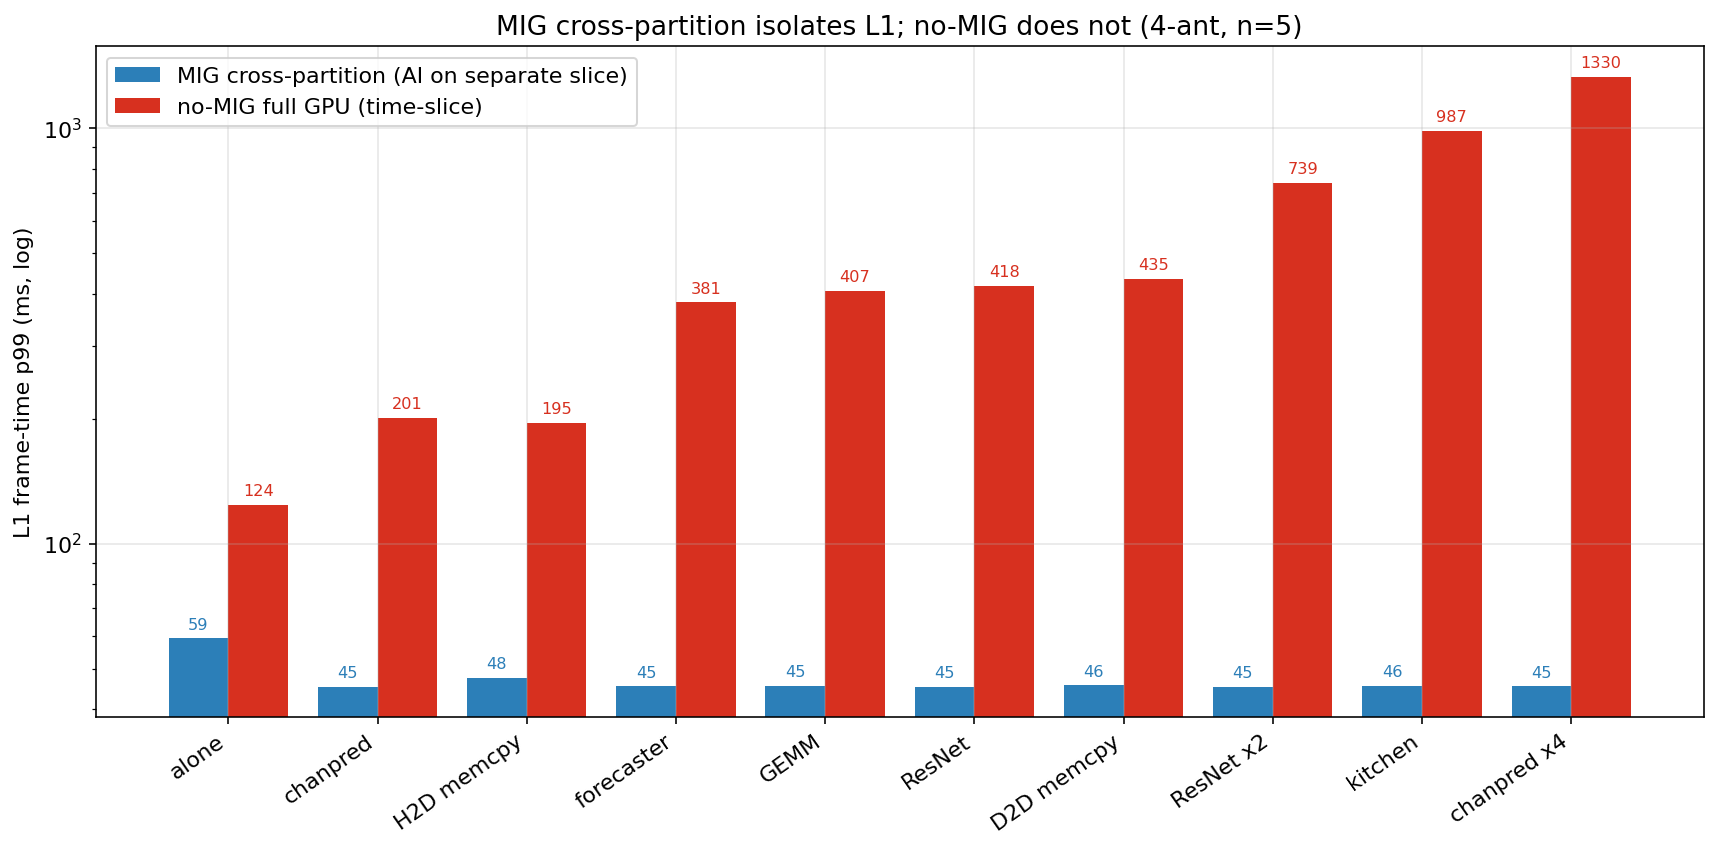
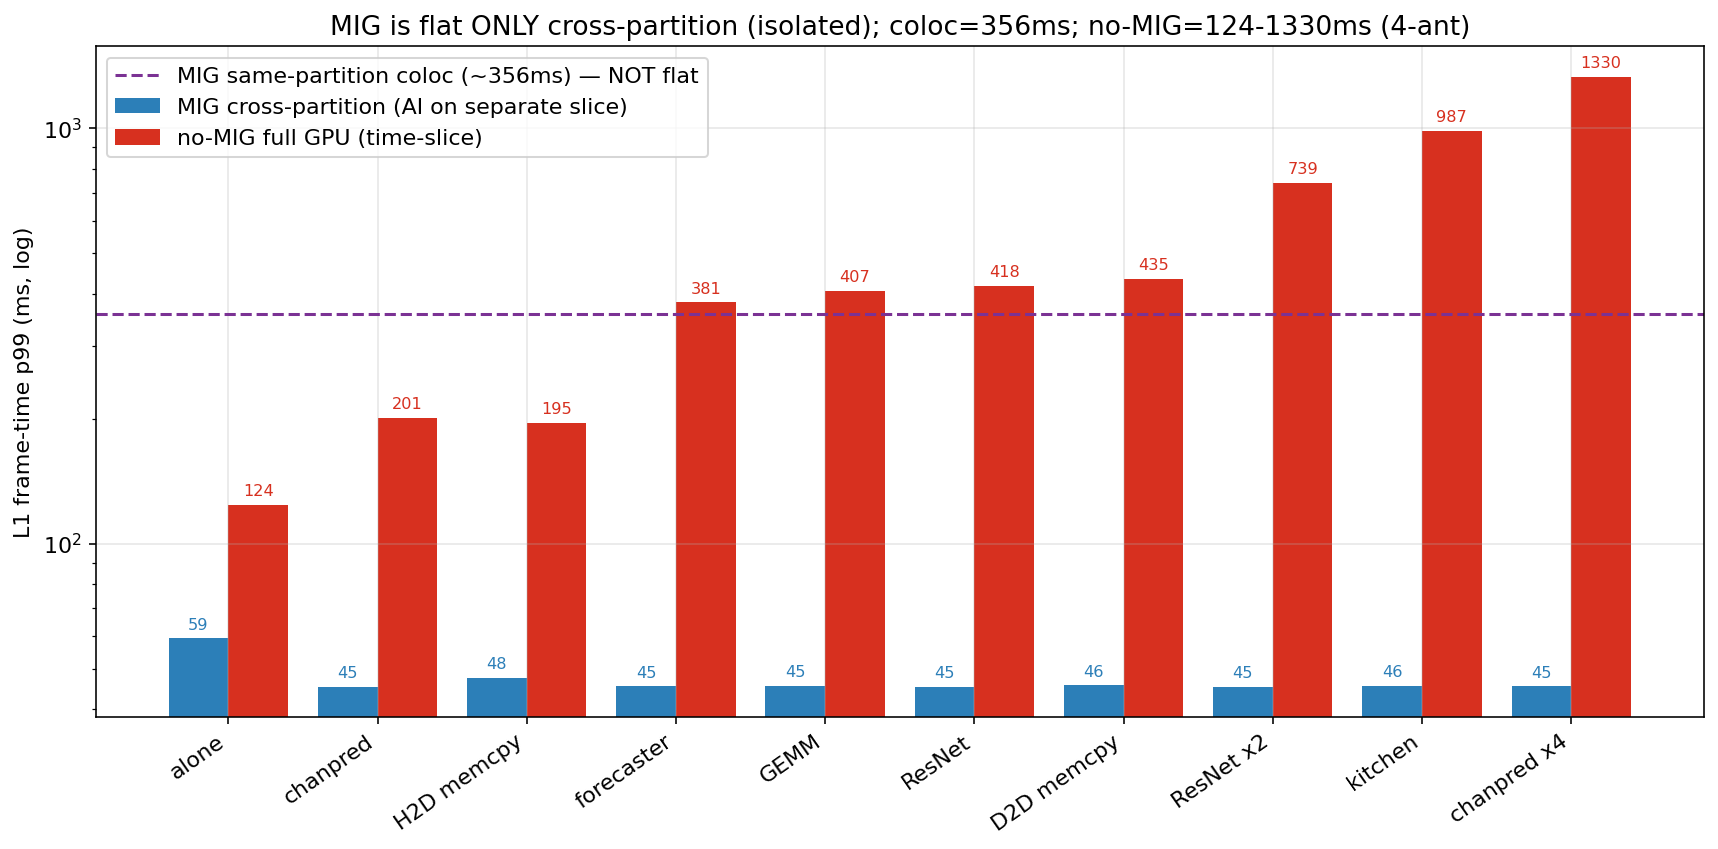
Fix misleading 'MIG is flat' framing — MIG is placement-dependent & bistable
User caught that MIG is NOT flat in the 5/31-6/1 data. The flat ~45ms only holds
for cross-partition (isolated) placement. Added:
- §F0 + figF7: MIG L1 p99 by placement (cross 45 vs coloc 356-371) and the 3g
  coloc run-to-run bistability (7/10 runs ~360ms, 3/10 ~45ms)
- figF1/figF3 now show the MIG coloc reference line (MIG not always flat)
- summary/conclusion reframed: MIG flat only cross-partition; coloc bad+bistable

Changed region(s): [[0.0617, 0.0, 0.8329, 0.1837]]

diff --git a/results/perlmutter_handoff/build_perlmutter_figures.py b/results/perlmutter_handoff/build_perlmutter_figures.py
@@ -65,7 +65,9 @@ xp=[d[2] for d in data]; nm=[d[1] for d in data]
 ax.bar(x-w/2,xp,w,label="MIG cross-partition (AI on separate slice)",color=C_X)
 ax.bar(x+w/2,nm,w,label="no-MIG full GPU (time-slice)",color=C_NM)
 ax.set_yscale("log"); ax.set_ylabel("L1 frame-time p99 (ms, log)")
-ax.set_title("MIG cross-partition isolates L1; no-MIG does not (4-ant, n=5)")
+ax.axhline(coloc_nrx if 'coloc_nrx' in dir() else 356, color=C_CO, ls="--", lw=1.5,
+           label="MIG same-partition coloc (~356ms) — NOT flat")
+ax.set_title("MIG is flat ONLY cross-partition (isolated); coloc=356ms; no-MIG=124-1330ms (4-ant)")
 ax.set_xticks(x); ax.set_xticklabels(labs,rotation=35,ha="right")
 for xi,v in zip(x-w/2,xp): ax.text(xi,v*1.05,f"{v:.0f}",ha="center",fontsize=8,color=C_X)
 for xi,v in zip(x+w/2,nm): ax.text(xi,v*1.05,f"{v:.0f}",ha="center",fontsize=8,color=C_NM)
@@ -86,7 +88,10 @@ x=np.arange(len(data)); labs=[d[0] for d in data]
 ax.plot(x,[d[2]/xp_alone for d in data],"o-",color=C_X,label="MIG cross-part (vs MIG alone)")
 ax.plot(x,[d[1]/nm_alone for d in data],"s-",color=C_NM,label="no-MIG (vs no-MIG alone)")
 ax.axhline(1,color="gray",ls="--",lw=0.8); ax.set_yscale("log")
-ax.set_ylabel("L1 p99 / own alone baseline"); ax.set_title("Isolation: MIG stays ~flat, no-MIG climbs up to ~11x")
+ax.axhline(coloc_nrx/xp_alone, color=C_CO, ls=":", lw=2,
+           label=f"MIG same-part coloc (~{coloc_nrx/xp_alone:.0f}x — MIG is NOT always flat)")
+ax.set_ylabel("L1 p99 / own alone baseline")
+ax.set_title("MIG cross-part stays flat; but MIG coloc jumps ~6x and no-MIG up to ~11x")
 ax.set_xticks(x); ax.set_xticklabels(labs,rotation=35,ha="right"); ax.legend()
 fig.tight_layout(); fig.savefig(f"{OUT}/figF3_normalized_contention.png"); plt.close(fig)
 
@@ -128,6 +133,31 @@ ax.set_xticks(x); ax.set_xticklabels(labs,rotation=35,ha="right")
 for xi,d in zip(x,data): ax.text(xi,d[1]*1.05,f"{d[1]:.0f}",ha="center",fontsize=8,color=C_NM)
 ax.legend(loc="upper left"); fig.tight_layout(); fig.savefig(f"{OUT}/figF6_three_regime_spectrum.png"); plt.close(fig)
 
+# ===================== FIG 7: MIG is NOT flat — placement & bistability =====================
+fig,(axL,axR)=plt.subplots(1,2,figsize=(15,6),gridspec_kw={"width_ratios":[1.1,1]})
+# left: MIG L1 p99 by placement
+mig_xpart = xp_alone  # ~45-59 representative (use chanpred cross-part instead for "under AI")
+mig_xpart_ai = p99(XPART,"realL1_F_E_chanpred_b64_run*.json")
+c4 = p99(COLOC,"realL1_G_1b_4g_coloc_run*.json")
+c2 = p99(COLOC,"realL1_G_1c_2g_coloc_run*.json")
+names=["cross-part\n+AI (3g)","coloc 4g\n+NeuralRx","coloc 2g\n+NeuralRx","coloc 3g\n+NeuralRx\n(bistable)"]
+vals=[mig_xpart_ai, c4, c2, p99(COLOC,"realL1_G_1a_3g_coloc_run*.json")]
+cols=[C_X,C_CO,C_CO,C_CO]
+b=axL.bar(names,vals,color=cols)
+for bb,v in zip(b,vals): axL.text(bb.get_x()+bb.get_width()/2,v+6,f"{v:.0f}",ha="center",fontsize=10)
+axL.set_ylabel("MIG L1 frame-time p99 (ms)")
+axL.set_title("MIG is NOT flat: depends entirely on placement\n(cross-part isolates; same-part coloc 6-8x worse)")
+# right: 3g coloc per-run bistability
+runs=[]
+for f in sorted(glob.glob(f"{COLOC}/realL1_G_1a_3g_coloc_run*.json")):
+    d=json.load(open(f)); runs.append(np.percentile(d["raw_ms"],99))
+axR.bar(range(1,len(runs)+1),runs,color=[C_X if r<100 else C_CO for r in runs])
+axR.axhline(100,color="gray",ls="--",lw=0.8)
+axR.set_xlabel("run #"); axR.set_ylabel("L1 p99 (ms)")
+axR.set_title("Same MIG 3g coloc config, run-to-run BISTABLE\n(7/10 runs ~360ms, 3/10 runs ~45ms)")
+fig.tight_layout(); fig.savefig(f"{OUT}/figF7_mig_not_flat_bistable.png"); plt.close(fig)
+
+print("MIG not-flat: xpart+AI", round(mig_xpart_ai,1), "coloc4g", round(c4,1), "coloc2g", round(c2,1))
 print("OK. baselines: no-MIG alone", round(nm_alone,1), "| MIG xpart alone", round(xp_alone,1),
       "| MIG coloc alone", round(coloc_alone,1), "| MIG coloc+nrx", round(coloc_nrx,1),
       "| no-MIG+nrx", round(nrx_nomig,1))

diff --git a/results/perlmutter_handoff/PERLMUTTER_NOMIG_VISUAL_EVIDENCE_KR.md b/results/perlmutter_handoff/PERLMUTTER_NOMIG_VISUAL_EVIDENCE_KR.md
@@ -37,11 +37,31 @@
 
 ---
 
-# §F1. MIG cross-partition은 격리한다, no-MIG는 못 한다
+# §F0. 먼저 — MIG는 "평탄"하지 않다 (오해 방지)
+
+![MIG not flat](figures/figF7_mig_not_flat_bistable.png)
+
+뒤의 §F1/§F3에서 MIG가 ~45ms로 평탄하게 보이는 것은 **cross-partition(AI를 별도 slice에 격리) regime만** 그렸기 때문이다. **MIG 전체는 결코 평탄하지 않다** — placement에 따라 6–8배 출렁이고, 심지어 같은 설정에서 run마다 튄다:
+
+| MIG placement | L1 p99 |
+|---|---|
+| cross-partition + AI (3g) | **45ms** (격리됨) |
+| same-partition coloc 4g + NeuralRx | **356ms** |
+| same-partition coloc 2g + NeuralRx | **371ms** |
+| same-partition coloc 3g + NeuralRx | **bistable: 7/10 run ≈ 360ms, 3/10 run ≈ 45ms** |
+
+- **왼쪽 그림**: MIG L1 p99는 cross-part 45ms → coloc 356–371ms. AI를 어디 두느냐가 전부.
+- **오른쪽 그림**: MIG 3g coloc은 **같은 설정인데 run마다 ~360ms 또는 ~45ms로 양극화(bistable)** — 예측 불가능. (상위 문서 §4 bistable contention과 일치.)
+
+> 따라서 §F1의 파란 막대(평탄 45ms)는 **MIG의 best-case(cross-partition)일 뿐**이다. MIG의 realistic/worst case(coloc)는 §F5–F7에서 별도로 본다. 이 점을 전제로 아래를 읽어야 한다.
+
+---
+
+# §F1. MIG cross-partition은 격리한다, no-MIG는 못 한다 (MIG best-case)
 
 ![MIG vs no-MIG p99](figures/figF1_mig_vs_nomig_p99.png)
 
-`F_saturation`(cross-partition)과 우리 no-MIG에 **둘 다 존재하는 10개 조건**의 깔끔한 1:1 비교. 파란색(MIG)은 전부 ~45ms 평탄, 빨간색(no-MIG)은 124→1330ms로 상승.
+`F_saturation`(cross-partition)과 우리 no-MIG에 **둘 다 존재하는 10개 조건**의 1:1 비교. 파란색(MIG **cross-partition, best-case**)은 ~45ms, 빨간색(no-MIG)은 124→1330ms로 상승. **단, 파란색은 MIG의 best-case일 뿐이며 MIG coloc은 356ms다(§F0/§F5 참조 — 보라 점선).**
 
 | 조건 | MIG cross-part p99 | no-MIG p99 | no-MIG/MIG |
 |---|---|---|---|
@@ -159,7 +179,7 @@ NeuralRx는 L1과 같은 PHY 파이프라인을 공유하는 co-tenant라 가장
 | 5 | 5분 sustained | 🟡 큐 → §F10 (상위 §19.3 지속성 비교) |
 
 ## 한 줄 종합
-> **MIG cross-partition 격리는 AI-RAN L1을 어떤 AI에도 ~45ms로 지켜내지만(no-MIG 대비 4–29배 우위), same-partition coloc은 MIG여도 ~356ms로 no-MIG(389ms)와 동급이다. → "MIG는 필요(격리)하지만 충분하지 않다(coloc)"를 한 데이터셋으로 입증.**
+> **MIG는 평탄하지 않다 — placement에 전적으로 의존한다(§F0). cross-partition 격리만 L1을 ~45ms로 지키고(no-MIG 대비 4–29배 우위), same-partition coloc은 MIG여도 ~356ms이며 3g에서는 run마다 45↔360ms로 bistable하다. no-MIG(389ms)는 MIG coloc과 동급. → "MIG는 필요(격리)하지만 충분하지 않다(coloc·bistable)"를 한 데이터셋으로 입증.**
 
 ---
 
